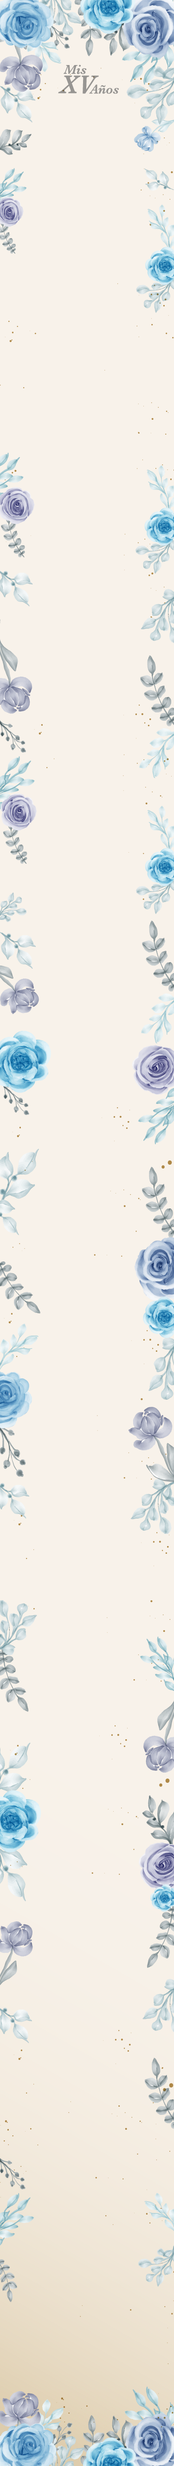
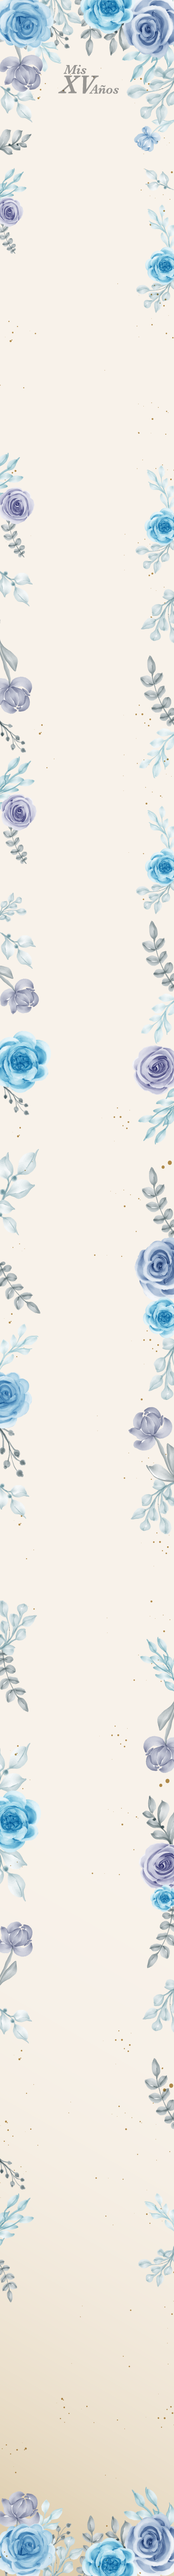
Descripción de los cambios realizados

diff --git a/invitacion_romi.html b/invitacion_romi.html
@@ -23,10 +23,10 @@
        .background {
         background-image: url('img/fondo.png'); /* Ruta de tu imagen */
         background-repeat: no-repeat; /* Evita que se repita */
-        background-size: 375px 5310px; /* Tamaño exacto */
+        background-size: 375px 5546px; /* Tamaño exacto */
         background-position: top center; /* Centrado en la parte superior */
         width: 375px; /* Ancho fijo */
-        height: 5310px; /* Altura exacta */
+        height: 5546px; /* Altura exacta */
         margin: 0 auto;
         animation: slideIn 1.5s ease-out;
     }
@@ -347,7 +347,7 @@
         left: 50%;
         transform: translateX(-50%);
         width: 2px;
-        height: 61px;
+        height: 0px;
         background-color: #6aa7cc;
         top: 426px;
     }
@@ -578,6 +578,7 @@
 		
 		/* Scroll to Top Button */
 	.scroll-to-top {
+
             position: fixed;
             bottom: 20px;
             right: 20px;
@@ -627,6 +628,12 @@
 		
 		
 		
+       
+        #countdown-display {
+            font-size: 2.5em;
+            font-weight: bold;
+            color: #6aa7cc;
+        }
 		
     </style>
 </head>
@@ -734,18 +741,34 @@ y alegría…<br>¡Ven a celebrarlos conmigo!</p>
         <div class="countdown-icon"></div>
         <h2 class="final-title">Faltan</h2>
         <div class="countdown-container">
-            <div class="countdown-item">
-                <div class="countdown-number" id="days">00</div>
-                <div class="countdown-label">DÍAS</div>
-            </div>
-            <div class="countdown-item">
-                <div class="countdown-number" id="hours">00</div>
-                <div class="countdown-label">HRS</div>
-            </div>
-            <div class="countdown-item">
-                <div class="countdown-number" id="minutes">00</div>
-                <div class="countdown-label">MIN</div>
-            </div>
+           
+        <div id="countdown-display"></div>
+    
+
+    <script>
+        function updateCountdown() {
+            const targetDate = new Date("February 1, 2025 00:00:00").getTime();
+            const countdownDisplay = document.getElementById("countdown-display");
+
+            function update() {
+                const now = new Date().getTime();
+                const distance = targetDate - now;
+                const days = Math.ceil(distance / (1000 * 60 * 60 * 24));
+
+                if (days > 0) {
+                    countdownDisplay.textContent = `${days} día${days !== 1 ? 's' : ''} `;
+                } else {
+                    countdownDisplay.textContent = "¡El evento es hoy!";
+                }
+            }
+
+            update(); // Actualizar inmediatamente
+            setInterval(update, 1000 * 60 * 60); // Actualizar cada hora
+        }
+
+        // Iniciar la cuenta regresiva cuando se cargue la página
+        window.onload = updateCountdown;
+    </script>
         </div>
         <p class="final-content">Para vivir esta gran<br>celebración</p>
     </div>
@@ -757,7 +780,7 @@ y alegría…<br>¡Ven a celebrarlos conmigo!</p>
         <div class="whatsapp-icon"></div>
         <h2 class="final-title">Confirma tu asistencia</h2>
         <p class="final-content">Tu presencia es muy importante para mí.<br><em>Por eso te pido que confirmes tu asistencia.</em><br>Solo da click en el botón y envía un mensaje por WhatsApp.</p>
-        <a href="https://wa.me/525514835736" class="confirm-button">
+        <a href="https://wa.me/525591945042" class="confirm-button">
           <i class="fab fa-whatsapp"></i> <strong> Confirmar</strong> </a>
     </div>
 			<div class="section-divider"></div>
@@ -804,33 +827,7 @@ este hermoso sueño!.</p>
 </script>
 
     <script>
-    // Función para actualizar el contador
-    function updateCountdown() {
-        const targetDate = new Date("February 1, 2024 15:30:00").getTime();
-        
-        function update() {
-            const now = new Date().getTime();
-            const distance = targetDate - now;
-
-            const days = Math.floor(distance / (1000 * 60 * 60 * 24));
-            const hours = Math.floor((distance % (1000 * 60 * 60 * 24)) / (1000 * 60 * 60));
-            const minutes = Math.floor((distance % (1000 * 60 * 60)) / (1000 * 60));
-
-            document.getElementById("days").textContent = String(days).padStart(2, '0');
-            document.getElementById("hours").textContent = String(hours).padStart(2, '0');
-            document.getElementById("minutes").textContent = String(minutes).padStart(2, '0');
-
-            if (distance < 0) {
-                document.getElementById("days").textContent = "00";
-                document.getElementById("hours").textContent = "00";
-                document.getElementById("minutes").textContent = "00";
-            }
-        }
-
-        update();
-        setInterval(update, 1000 * 60); // Actualizar cada minuto
-    }
-
+   
     // Animación de elementos al hacer scroll
     document.addEventListener('DOMContentLoaded', function() {
         updateCountdown();

diff --git a/invitacion.html b/invitacion.html
@@ -23,10 +23,10 @@
        .background {
         background-image: url('img/fondo.png'); /* Ruta de tu imagen */
         background-repeat: no-repeat; /* Evita que se repita */
-        background-size: 375px 5310px; /* Tamaño exacto */
+        background-size: 375px 5546px; /* Tamaño exacto */
         background-position: top center; /* Centrado en la parte superior */
         width: 375px; /* Ancho fijo */
-        height: 5310px; /* Altura exacta */
+        height: 5546px; /* Altura exacta */
         margin: 0 auto;
         animation: slideIn 1.5s ease-out;
     }
@@ -347,7 +347,7 @@
         left: 50%;
         transform: translateX(-50%);
         width: 2px;
-        height: 61px;
+        height: 0px;
         background-color: #6aa7cc;
         top: 426px;
     }
@@ -627,6 +627,12 @@
 		
 		
 		
+       
+        #countdown-display {
+            font-size: 2.5em;
+            font-weight: bold;
+            color: #6aa7cc;
+        }
 		
     </style>
 </head>
@@ -734,18 +740,34 @@ y alegría…<br>¡Ven a celebrarlos conmigo!</p>
         <div class="countdown-icon"></div>
         <h2 class="final-title">Faltan</h2>
         <div class="countdown-container">
-            <div class="countdown-item">
-                <div class="countdown-number" id="days">00</div>
-                <div class="countdown-label">DÍAS</div>
-            </div>
-            <div class="countdown-item">
-                <div class="countdown-number" id="hours">00</div>
-                <div class="countdown-label">HRS</div>
-            </div>
-            <div class="countdown-item">
-                <div class="countdown-number" id="minutes">00</div>
-                <div class="countdown-label">MIN</div>
-            </div>
+           
+        <div id="countdown-display"></div>
+    
+
+    <script>
+        function updateCountdown() {
+            const targetDate = new Date("February 1, 2025 00:00:00").getTime();
+            const countdownDisplay = document.getElementById("countdown-display");
+
+            function update() {
+                const now = new Date().getTime();
+                const distance = targetDate - now;
+                const days = Math.ceil(distance / (1000 * 60 * 60 * 24));
+
+                if (days > 0) {
+                    countdownDisplay.textContent = `${days} día${days !== 1 ? 's' : ''} `;
+                } else {
+                    countdownDisplay.textContent = "¡El evento es hoy!";
+                }
+            }
+
+            update(); // Actualizar inmediatamente
+            setInterval(update, 1000 * 60 * 60); // Actualizar cada hora
+        }
+
+        // Iniciar la cuenta regresiva cuando se cargue la página
+        window.onload = updateCountdown;
+    </script>
         </div>
         <p class="final-content">Para vivir esta gran<br>celebración</p>
     </div>
@@ -804,33 +826,7 @@ este hermoso sueño!.</p>
 </script>
 
     <script>
-    // Función para actualizar el contador
-    function updateCountdown() {
-        const targetDate = new Date("February 1, 2024 15:30:00").getTime();
-        
-        function update() {
-            const now = new Date().getTime();
-            const distance = targetDate - now;
-
-            const days = Math.floor(distance / (1000 * 60 * 60 * 24));
-            const hours = Math.floor((distance % (1000 * 60 * 60 * 24)) / (1000 * 60 * 60));
-            const minutes = Math.floor((distance % (1000 * 60 * 60)) / (1000 * 60));
-
-            document.getElementById("days").textContent = String(days).padStart(2, '0');
-            document.getElementById("hours").textContent = String(hours).padStart(2, '0');
-            document.getElementById("minutes").textContent = String(minutes).padStart(2, '0');
-
-            if (distance < 0) {
-                document.getElementById("days").textContent = "00";
-                document.getElementById("hours").textContent = "00";
-                document.getElementById("minutes").textContent = "00";
-            }
-        }
-
-        update();
-        setInterval(update, 1000 * 60); // Actualizar cada minuto
-    }
-
+   
     // Animación de elementos al hacer scroll
     document.addEventListener('DOMContentLoaded', function() {
         updateCountdown();
